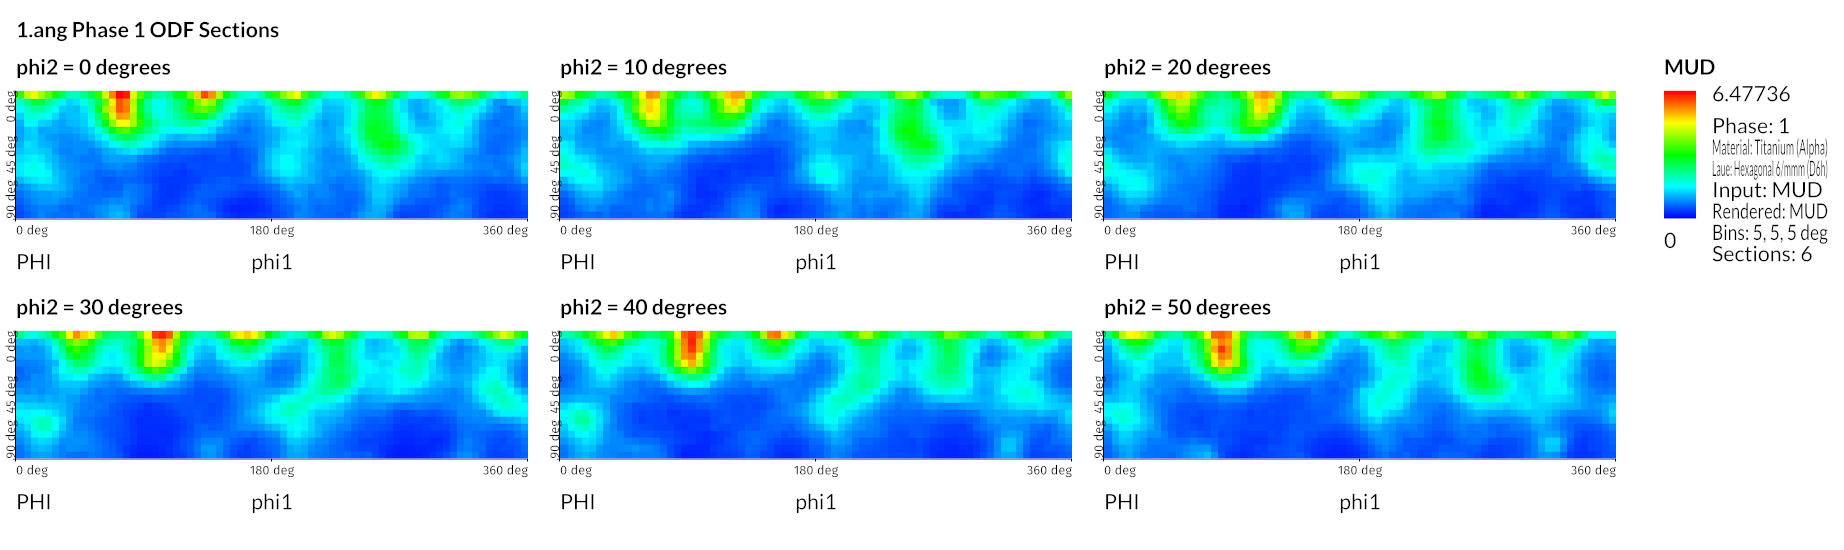
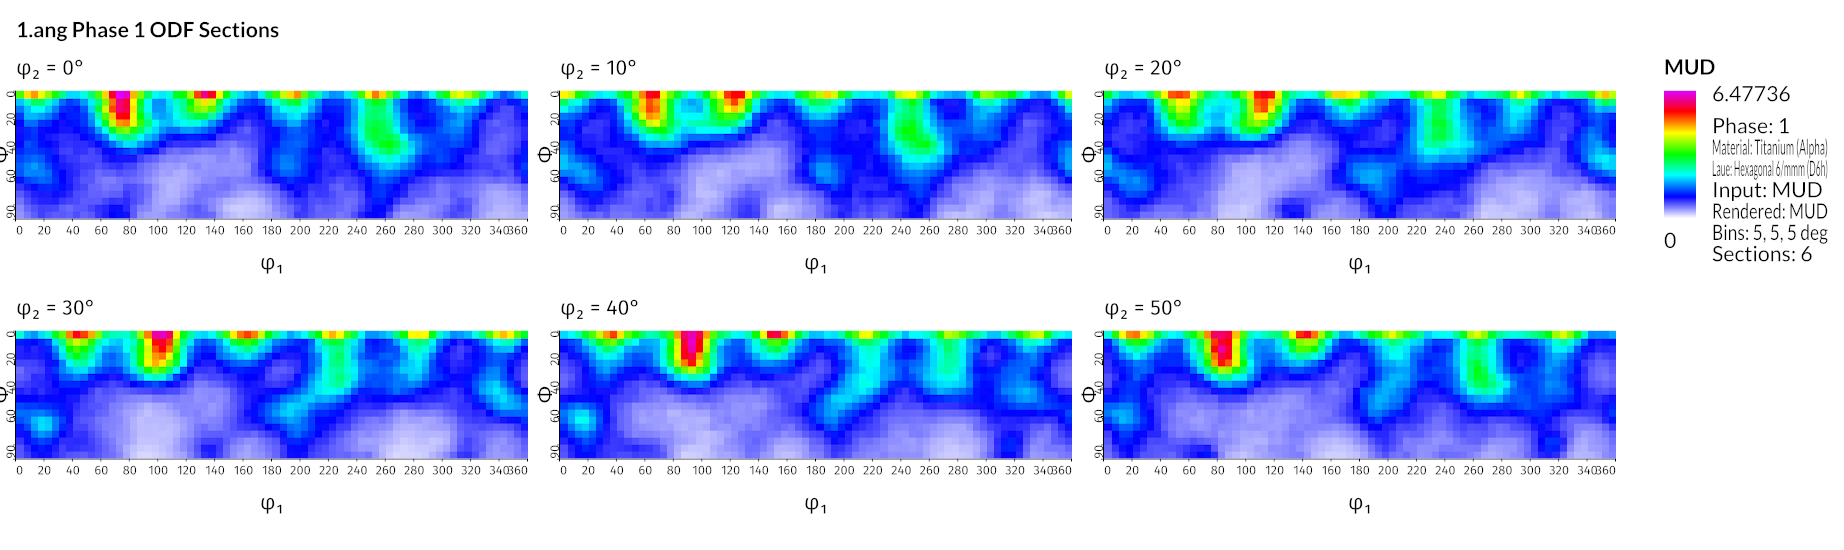
DOC: Document combined ODF presentation

diff --git a/docs/ComputeODFFilter.md b/docs/ComputeODFFilter.md
@@ -6,7 +6,9 @@ MTRSim (Compute)
 
 ## Description
 
-This **Filter** builds a discretized Orientation Distribution Function (ODF) on a regular Bunge-Euler-space grid from per-voxel EBSD data. It mirrors the algorithm in the MTRSim research code's MATLAB implementation (`matlab/calc_ODF.m`) and produces a single `Float64`, single-component **Cell** **Data Array** on a (new or existing) ODF **Image Geometry**.
+This **Filter** builds a discretized Orientation Distribution Function (ODF) on a regular Bunge-Euler-space grid from per-voxel EBSD data. It mirrors the algorithm in the MTRSim research code's MATLAB implementation (`matlab/calc_ODF.m`) and produces a single `Float64`, single-component **Cell** **Data Array** on a (new or existing) ODF **Image Geometry**. It can also render standard constant-`phi2` sections directly from the just-computed ODF, without a separate presentation filter.
+
+**Phase Index** selects one positive ensemble tuple. Only voxels whose **Cell Phases** equal that index contribute; phase zero and all other phases are excluded even if their mask values are true. If **Use Mask Array** is enabled, a voxel must also have a true **Mask** value. **Crystal Structures** and **Material Names** must each contain the selected ensemble tuple. The selected crystal structure supplies symmetric variants and the section plotting limits; the material name labels the montage. This prevents a mixed-phase ODF from being presented as though it belonged to one phase.
 
 There are two output modes:
 
@@ -29,10 +31,10 @@ Standard ODF plots ("phi1-PHI plane at fixed phi2") correspond to the **YZ image
 
 ## Algorithm
 
-For every voxel `i` where `phases[i] != 0` and (mask is unused OR `mask[i] == true`):
+For every voxel `i` where `phases[i] == Phase Index` and (mask is unused OR `mask[i] == true`):
 
 1. Read the Bunge Euler triple `(phi1, PHI, phi2)` (radians).
-2. Look up the crystal structure with `crystal_structures[phases[i]]` (an EbsdLib `CrystalStructure::*` code, e.g. `Hexagonal_High = 0`, `Cubic_High = 1`).
+2. Look up the selected phase's crystal structure (an EbsdLib `CrystalStructure::*` code, e.g. `Hexagonal_High = 0`, `Cubic_High = 1`).
 3. Expand to all symmetrically-equivalent Bunge tuples using EbsdLib symmetry operators (12 for HCP, 24 for cubic).
 4. Each symmetric tuple is converted to integer bin indices and deposited into the ODF grid:
    - **Smoothing off:** the entire deposit (1.0) goes into the center bin.
@@ -56,6 +58,8 @@ The **Filter** offers two output modes via the **Output Units** parameter. Both 
 MUD[i, j, k] = CountDensity[i, j, k] * 8 * pi^2 / (step_rad^3 * sin(PHI_center(j)))
 ```
 
+For either choice, the filter creates a one-tuple `StringArray` at `<ODF geometry>/ODF Metadata/<component name> Units`, containing exactly `Count-Density` or `MUD`. Each appended component has its own units entry, which also survives export to a DREAM3D-NX file. The optional montage always displays MUD; Count-Density is converted internally before rendering, without a manual input-unit choice. Its legend reads `MUD (from Count-Density)`; a MUD component renders as `MUD`.
+
 where `step_rad = binSizeDeg * pi / 180` and `PHI_center(j) = (j + 0.5) * step_rad`. The factor amplifies low-Φ bins (which cover much less SO(3) volume) and shrinks equatorial bins, removing the gimbal-pole compression that makes a count-density plot look "empty" near `PHI = 0` and `PHI = pi` even when those orientations are physically present. For HCP α-Ti scans this typically converts a "blue at the top of the φ₁-Φ panel" Count-Density rendering into the MTEX-style "peaks visible at all Φ" view.
 
 Without this Jacobian, a global linear colormap suppresses sub-peak features because Bunge bins near the Φ poles cover orders of magnitude less orientation space than equatorial bins -- equal counts represent very different physical densities.
@@ -72,7 +76,20 @@ Per-voxel work runs under SIMPLNX's `ParallelDataAlgorithm`. Each thread accumul
 
 A single `Float64`, single-component **Cell** **Data Array** of size `nphi1 * nPHI * nphi2` (e.g., `72 * 36 * 72 = 186,624` at 5 deg spacing) on the target ODF **Image Geometry**, named per the **Component Name** parameter (default `Component 1`).
 
-In **Create New** mode the **Filter** also creates the **Image Geometry** and the cell **Attribute Matrix** at the user-supplied paths. In **Append** mode the existing geometry's cell **Attribute Matrix** is reused, and the proposed component name must not collide with an existing array on it.
+In **Create New** mode the **Filter** also creates the **Image Geometry** and the cell **Attribute Matrix** at the user-supplied paths. In **Append** mode the existing geometry's cell **Attribute Matrix** is reused, and the proposed component name must not collide with an existing array on it. The corresponding `ODF Metadata/<component name> Units` path must also be available.
+
+## Constant-`phi2` Section Presentation
+
+Presentation is optional. With both **Write PNG** and **Save as Image Geometry** disabled, the filter writes only the numerical ODF and its units metadata. Enable either output or both to render a montage directly from that component:
+
+- **Write PNG** writes an annotated `.png` atomically to **Output PNG**. A previous file is not replaced unless encoding succeeds.
+- **Save as Image Geometry** creates **Output Image Geometry** with `Cell Data/ODF Sections RGB`, a three-component `UInt8` array. When both outputs are enabled, its RGB bytes equal the decoded PNG's RGB pixels.
+
+**Number of Sections** (at least two) and **Sections Per Row** (between one and the number of sections) set the panel count and layout. **Section Width** must be at least 128 pixels; panel height follows the Euler-angle aspect ratio. **Figure Title** labels the whole montage. The default **Color Table Preset** is *Rainbow Blended White*. **Scale Mode** defaults to *Automatic* and shares `[0, maximum displayed MUD]` across all panels; *Manual* requires finite `0 <= minimum < maximum` in MUD. Negative or non-finite ODF values and an all-zero automatic scale are errors.
+
+Each panel shows `phi1` horizontally from 0° to 360° and `PHI` vertically to the selected Laue class's rectangular limit. The sections sample `phi2Section(s) = s * phi2Max / N` for `s = 0 ... N-1`: the symmetry-equivalent endpoint is omitted. Hexagonal High (`6/mmm`) has `PHI < 90°` and `phi2 < 60°`, giving the default six sections at 0°, 10°, 20°, 30°, 40°, and 50°. Sections are linearly interpolated between neighboring cell-centered `phi2` planes and wrap periodically across the full 360° grid; `phi1` and `PHI` are not interpolated. Cubic rectangular limits bound, rather than exactly trace, their nonrectangular fundamental zones.
+
+The labeled phase and material come from the selected input ensemble tuple. Keep the full Bunge ODF grid for presentation: the symmetry limits affect the displayed region, not the stored numerical grid. The image color bar always reports the rendered MUD range.
 
 ## Cropping the ODF to its Fundamental Zone
 
@@ -187,6 +204,10 @@ The UI shows the following before the user clicks Apply:
 - Smoothing (enabled / disabled)
 - Output Units (Count-Density / MUD)
 - Mask (none / path)
+- Selected Phase
+- For enabled presentation: input/rendered units, phase and available material, Laue class, Euler limits and exact section angles, layout and composite dimensions, scale mode
+
+Preflight creates the numerical ODF and units actions even when presentation is disabled. With presentation enabled, it also checks the section settings, color preset, scale limits, and PNG extension and plans the optional RGB geometry. When an upstream reader has only placeholder ensemble values during pure pipeline preflight, the material and symmetry details cannot yet be known; the composite dimensions are a conservative estimate, and execution uses the actual selected phase to size the final RGB geometry. The completed `1.ang` pipeline preflight reports no `Deferred until execution` marker.
 
 
 % Auto generated parameter table will be inserted here
@@ -197,11 +218,11 @@ The UI shows the following before the user clicks Apply:
 
 ## Example Pipelines
 
-(Example pipelines will be added in a future release.)
+For the original `1.ang` EBSD scan: Read EDAX EBSD Data (.ang) → Multi-Threshold Objects (`Confidence Index > 0`, Boolean `Indexed Mask`) → Compute ODF From Euler Angles (phase 1, 5° bins, smoothing, MUD, mask, six sections, three per row, *Rainbow Blended White*, automatic scale, PNG and RGB geometry) → Write DREAM3D-NX File. The companion validation pipeline and independent checks are retained outside this repository under `RR_MTR_Examples/1/odf_section_validation`.
 
-## See Also
+![Six constant-phi2 sections computed directly from the phase-1 ODF of 1.ang](Images/odf_phi2_sections.png)
 
-To create a conventional constant-`phi2` montage, compute a phase-isolated full-grid **MUD** or **Count-Density** array and pass it to the [Write ODF Sections](WriteODFSectionsFilter.md) **Filter**. For multiphase input, use a phase-specific mask so that the selected ODF contains only the phase identified by the renderer's ensemble metadata.
+*Original `1.ang` EBSD dataset, phase 1 Titanium (Alpha); 5° full-Bunge grid rendered in MUD at φ₂ = 0°, 10°, 20°, 30°, 40°, and 50° with the default Rainbow Blended White color preset.*
 
 ## License & Copyright
 
